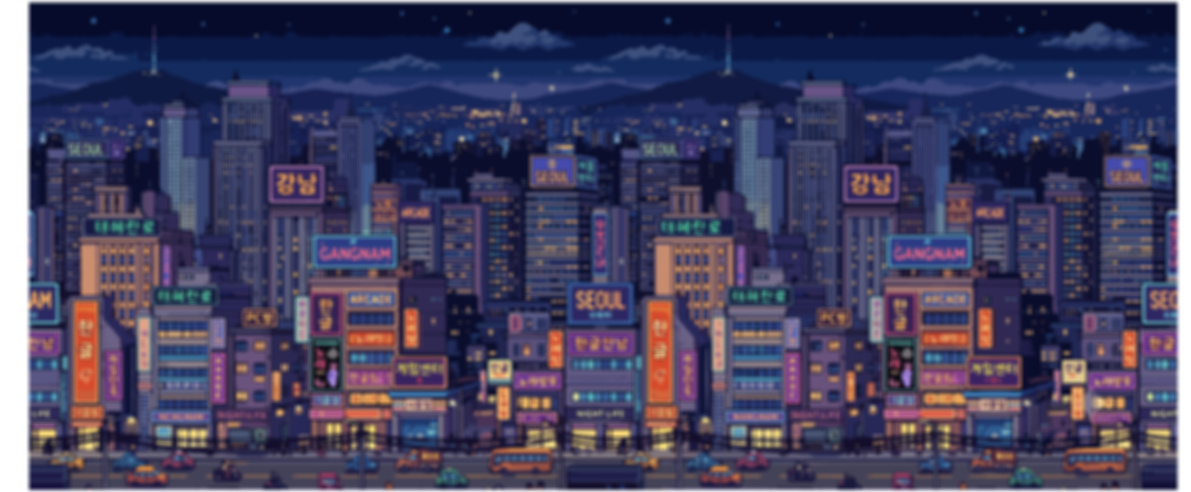
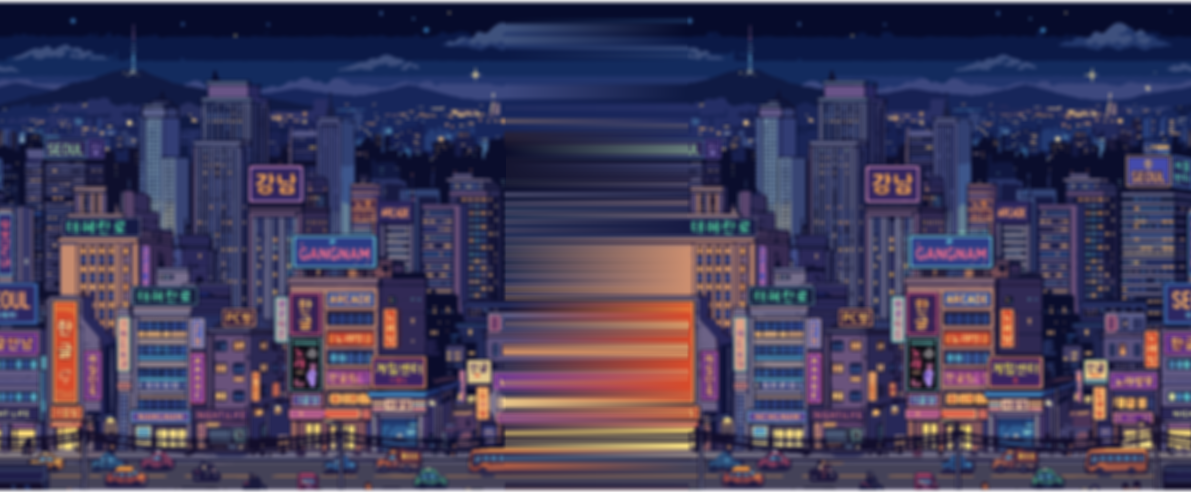
Cocktail Blitz: 배경 좌우 wrap 심리스 재가공(끊김 제거) + 플레이 UI를 Cocktail Defense와 동일화(Press Start 2P, HP/XP 액자바+수치라벨, 레벨업 액자프레임 카드+배너, 획득 칵테일 wslot 슬롯)

diff --git a/cocktail_blitz.html b/cocktail_blitz.html
@@ -5,7 +5,8 @@
 <meta name="viewport" content="width=device-width, initial-scale=1, maximum-scale=1, user-scalable=no">
 <title>Pine &amp; Co — Cocktail Blitz</title>
 <style>
-  :root{ --pine:#5a8a5e; --gold:#c89a3c; --cream:#f0ebe0; }
+  @import url('https://fonts.googleapis.com/css2?family=Press+Start+2P&display=swap');
+  :root{ --pine:#5a8a5e; --gold:#c89a3c; --cream:#f0ebe0; --pine-light:#6fcf8f; --amber:#e6b450; }
   *{ box-sizing:border-box; margin:0; padding:0; }
   html,body{ height:100%; background:#05070d; overflow:hidden; }
   body{ font-family:-apple-system,BlinkMacSystemFont,"Segoe UI",system-ui,sans-serif;
@@ -55,14 +56,26 @@
   #topRow{ display:flex; justify-content:space-between; align-items:flex-start; }
   #score{ font-size:clamp(22px,7vw,34px); font-weight:900; font-variant-numeric:tabular-nums; text-shadow:0 2px 8px rgba(0,0,0,.6); line-height:1; }
   #score small{ display:block; font-size:10px; letter-spacing:2px; color:#8ea0c0; font-weight:700; }
-  #lvBox{ text-align:right; font-size:11px; color:#8ea0c0; font-weight:700; }
-  #lvBox b{ color:var(--gold); font-size:15px; }
-  #bars{ margin-top:7px; display:flex; flex-direction:column; gap:4px; }
-  .bar{ height:7px; background:rgba(0,0,0,.5); border-radius:4px; overflow:hidden; border:1px solid rgba(255,255,255,.15); }
-  #hpFill{ height:100%; background:linear-gradient(90deg,#ff5a6a,#ff9a6a); width:100%; }
-  #xpFill{ height:100%; background:linear-gradient(90deg,#7ee7a0,#c89a3c); width:0%; }
-  #wchips{ position:absolute; bottom:8px; left:0; right:0; display:flex; gap:5px; justify-content:center; pointer-events:none; flex-wrap:wrap; padding:0 8px; }
-  .wchip{ font-size:10px; font-weight:800; letter-spacing:.3px; color:#0a140a; padding:3px 8px; border-radius:20px; box-shadow:0 2px 0 rgba(0,0,0,.4); }
+  #lvBox{ text-align:right; font-size:11px; color:#8ea0c0; font-weight:700; font-family:'Press Start 2P',monospace; }
+  #lvBox b{ color:var(--gold); font-size:13px; }
+  /* ★Cocktail Defense 동일 HP/XP 바(액자형, 픽셀폰트 라벨) */
+  #bars{ margin-top:7px; display:flex; flex-direction:column; }
+  .hp-bar{ position:relative; width:clamp(150px,44vw,230px); height:clamp(18px,5vw,26px);
+    background:#2a0e0e; border:3px solid #000; box-shadow:0 2px 0 rgba(0,0,0,.5); }
+  #hpFill{ height:100%; background:linear-gradient(#ff6b5e,#d9544d); width:100%; transition:width .12s; }
+  .bar-label{ position:absolute; inset:0; display:flex; align-items:center; justify-content:center;
+    font-family:'Press Start 2P',monospace; font-size:clamp(8px,2.3vw,12px); color:#fff; text-shadow:1px 1px 0 #000,-1px -1px 0 #000; }
+  .xp-bar{ position:relative; width:clamp(150px,44vw,230px); height:clamp(9px,2.6vw,14px);
+    background:#0e2a16; border:2px solid #000; margin-top:4px; }
+  #xpFill{ height:100%; background:linear-gradient(#aeffbe,#6fcf8f); width:0%; transition:width .12s; box-shadow:0 0 6px rgba(111,207,143,.85); }
+  /* ★획득 칵테일/재료 슬롯(CD 동일: wslot 액자칩 + Lv 배지) */
+  #wchips{ position:absolute; bottom:8px; left:0; right:0; display:flex; gap:3px; justify-content:center; pointer-events:none; flex-wrap:wrap; padding:0 8px; }
+  .wslot{ width:clamp(26px,7.5vw,34px); height:clamp(26px,7.5vw,34px); border:1.5px solid #555; border-radius:4px;
+    background:rgba(0,0,0,.55); display:flex; align-items:center; justify-content:center; position:relative; }
+  .wslot.base{ border-color:#c89a3c; }
+  .wslot img{ width:76%; height:76%; object-fit:contain; image-rendering:pixelated; }
+  .wslot .wic{ font-size:15px; line-height:1; }
+  .wslot .wlv{ position:absolute; bottom:-3px; right:-1px; font-family:'Press Start 2P',monospace; font-size:8px; color:var(--amber); font-weight:bold; text-shadow:1px 1px 0 #000; }
   #lvlFlash{ position:absolute; top:28%; left:0; right:0; text-align:center; font-weight:900; font-size:clamp(20px,7vw,34px);
     letter-spacing:3px; opacity:0; pointer-events:none; transition:opacity .2s; color:var(--gold); text-shadow:0 0 18px rgba(200,154,60,.5); }
   #lvlFlash.boss{ color:#ff5a4d; }
@@ -71,18 +84,27 @@
   #lvlFlash .bt{ display:block; font-size:.34em; letter-spacing:.5px; font-weight:700; color:#f0d9c0; margin-top:4px; }
   #bossbar{ position:absolute; top:58px; left:12%; right:12%; height:8px; background:rgba(0,0,0,.5); border:1px solid #ff8a7a; border-radius:5px; overflow:hidden; opacity:0; transition:opacity .3s; }
   #bossbar.show{ opacity:1; } #bossfill{ height:100%; width:100%; background:linear-gradient(90deg,#ff5a4d,#ffb14d); }
-  /* 무기 선택 */
-  #levelup{ background:rgba(6,10,20,.9); }
-  #levelup h2{ font-size:clamp(18px,5.5vw,26px); font-weight:900; color:var(--gold); letter-spacing:1px; }
-  #levelup .lsub{ font-size:12px; color:#a9b6cf; margin-bottom:4px; }
-  #cards{ display:flex; flex-direction:column; gap:10px; width:100%; max-width:340px; }
-  .card{ display:flex; align-items:center; gap:12px; padding:12px 14px; border-radius:14px; cursor:pointer; text-align:left;
-    background:linear-gradient(#1a2620,#12190f); border:2px solid #35513f; box-shadow:0 4px 0 rgba(0,0,0,.5); transition:transform .07s,border-color .1s; }
-  .card:active{ transform:translateY(3px); } .card:hover{ border-color:var(--gold); }
-  .cIcon{ width:42px; height:42px; border-radius:10px; flex:0 0 auto; display:flex; align-items:center; justify-content:center; font-size:22px; }
-  .cName{ font-size:15px; font-weight:900; color:var(--cream); }
-  .cLv{ font-size:11px; font-weight:800; color:var(--gold); }
-  .cDesc{ font-size:11px; color:#a9b6cf; line-height:1.4; margin-top:2px; }
+  /* ★레벨업: Cocktail Defense 동일 — 배너 + 액자(levelup_frame.png) 카드 */
+  #levelup{ background:rgba(6,10,20,.92); gap:clamp(8px,2vh,18px); padding:18px 8px; }
+  .levelup-banner{ width:clamp(160px,44vw,300px); height:auto; image-rendering:pixelated;
+    filter:drop-shadow(2px 2px 0 #000) drop-shadow(0 0 16px rgba(111,207,143,.45)); }
+  #cards{ display:flex; flex-wrap:wrap; gap:clamp(6px,1.5vw,14px); align-items:center; justify-content:center; width:100%; max-width:760px; }
+  .up-card{ position:relative; cursor:pointer; transition:transform .07s; flex:0 0 auto; font-family:'Press Start 2P',monospace;
+    width:clamp(120px, min(40vw,26vh), 180px); aspect-ratio:465/475; }
+  .up-card:active{ transform:translateY(3px); }
+  .upframe-img{ position:absolute; inset:0; width:100%; height:100%; image-rendering:pixelated; z-index:2; pointer-events:none; }
+  .up-card.new .upframe-img{ filter:drop-shadow(0 0 11px rgba(230,180,80,.75)); }
+  .up-inner{ position:absolute; left:16%; top:15.5%; width:68%; height:69%; z-index:1; overflow:hidden;
+    display:flex; flex-direction:column; align-items:center; justify-content:center; text-align:center; gap:clamp(1px,0.5vh,3px);
+    padding:2px; background:radial-gradient(circle at 50% 32%, rgba(22,32,20,.5), rgba(8,12,8,.8)); }
+  .up-card .ic{ line-height:1; display:flex; align-items:center; justify-content:center; font-size:clamp(17px,4.6vw,28px); flex:0 0 auto; }
+  .up-card .up-ic{ max-width:82%; max-height:clamp(20px,6vh,34px); width:auto; height:auto; object-fit:contain; image-rendering:pixelated; display:block; }
+  .up-card h4{ font-size:clamp(7px,2.1vw,11px); color:var(--pine-light); line-height:1.2; }
+  .up-card.new h4{ color:var(--amber); }
+  .up-card .lv{ font-size:clamp(6px,1.6vw,9px); color:var(--amber); }
+  .up-card p{ font-size:clamp(6px,1.6vw,9px); color:#d2cdbb; line-height:1.22; max-width:100%;
+    display:-webkit-box; -webkit-box-orient:vertical; -webkit-line-clamp:3; line-clamp:3; overflow:hidden;
+    overflow-wrap:break-word; word-break:break-word; padding:0 1px; font-family:-apple-system,"Segoe UI",system-ui,sans-serif; }
 </style>
 </head>
 <body>
@@ -93,7 +115,10 @@
       <div id="score"><small>SCORE</small><span id="scoreVal">0</span></div>
       <div id="lvBox">WAVE <b id="waveVal">1</b> · LV <b id="lvVal">1</b><br>BEST <span id="hiVal">0</span></div>
     </div>
-    <div id="bars"><div class="bar"><div id="hpFill"></div></div><div class="bar"><div id="xpFill"></div></div></div>
+    <div id="bars">
+      <div class="hp-bar"><div id="hpFill"></div><span class="bar-label" id="hpText">120/120</span></div>
+      <div class="xp-bar"><div id="xpFill"></div></div>
+    </div>
   </div>
   <div id="wchips"></div>
   <div id="bossbar"><div id="bossfill"></div></div>
@@ -124,7 +149,8 @@
   </div>
 
   <div id="levelup" class="overlay hidden">
-    <h2>LEVEL UP!</h2><div class="lsub">칵테일을 하나 골라라</div>
+    <img class="levelup-banner" src="assets/levelup_banner.png" alt="LEVEL UP!"
+         onerror="this.outerHTML='<h2 style=&quot;color:var(--gold);font-family:Press Start 2P,monospace&quot;>LEVEL UP!</h2>'">
     <div id="cards"></div>
   </div>
 
@@ -288,8 +314,12 @@
     playMusic('music_play'+(1+Math.floor(Math.random()*3)));   // ★게임 음악
   }
 
+  function wImg(k){ const w=WEAPONS[k]; return w.sig?(k==='shaker'?'proj_shaker':'proj_barspoon'):'cocktail_'+k; }
   function updWchips(){ const el=document.getElementById('wchips'); let h='';
-    for(const k in player.weapons){ const w=WEAPONS[k]; h+=`<div class="wchip" style="background:${w.col}">${w.ic} ${w.name.split(' ')[0]} ${player.weapons[k]}</div>`; }
+    // ★획득 칵테일/무기를 CD 동일 wslot(액자칩 + Lv 배지)로 표시. 시그니처(기본무기)는 금테.
+    const keys=Object.keys(player.weapons).sort((a,b)=> (WEAPONS[a].sig?0:1)-(WEAPONS[b].sig?0:1));
+    for(const k of keys){ const w=WEAPONS[k], lv=player.weapons[k];
+      h+=`<div class="wslot${w.sig?' base':''}"><img src="assets/${wImg(k)}.png" alt="" onerror="this.replaceWith(Object.assign(document.createElement('span'),{className:'wic',textContent:'${w.ic||'🍸'}'}))"><span class="wlv">${lv}</span></div>`; }
     el.innerHTML=h; }
 
   function enemyHpBase(){ return 6 + t*0.55 + level*1.5; }   // ★난이도↓: 체력 완만
@@ -346,11 +376,14 @@
     const pick=pool.slice(0,3); if(Math.random()<0.35 || pick.length<3) pick.push({heal:true});
     const cards=pick.slice(0,3);
     const el=document.getElementById('cards'); el.innerHTML='';
-    cards.forEach(c=>{ const d=document.createElement('div'); d.className='card';
-      if(c.heal){ d.innerHTML=`<div class="cIcon" style="background:${HEAL.col}">${HEAL.ic}</div><div><div class="cName">${HEAL.name}</div><div class="cDesc">${HEAL.desc}</div></div>`;
+    // ★Cocktail Defense 동일 액자 카드(levelup_frame.png) — 아이콘 이미지 + 이름 + Lv + 설명
+    cards.forEach(c=>{ const d=document.createElement('div');
+      if(c.heal){ d.className='up-card new';
+        d.innerHTML=`<div class="up-inner"><div class="ic"><span>${HEAL.ic}</span></div><h4>${HEAL.name}</h4><div class="lv">RECOVER</div><p>${HEAL.desc}</p></div><img class="upframe-img" src="assets/levelup_frame.png" alt="" onerror="this.style.display='none'">`;
         d.onclick=()=>{ player.maxHp+=20; player.hp=Math.min(player.maxHp,player.hp+60); pickDone(); }; }
       else { const w=WEAPONS[c.k], lv=player.weapons[c.k]||0;
-        d.innerHTML=`<div class="cIcon" style="background:${w.col}">${w.ic}</div><div><div class="cName">${w.name} <span class="cLv">${c.upgrade?('Lv'+lv+'→'+(lv+1)):'NEW'}</span></div><div class="cDesc">${w.desc}</div></div>`;
+        d.className='up-card'+(c.upgrade?'':' new');
+        d.innerHTML=`<div class="up-inner"><div class="ic"><img class="up-ic" src="assets/${wImg(c.k)}.png" alt="" onerror="this.replaceWith(Object.assign(document.createElement('span'),{textContent:'${w.ic||'🍸'}'}))"></div><h4>${w.name}</h4><div class="lv">${c.upgrade?('Lv '+lv+'→'+(lv+1)+'/'+w.max):'NEW · Lv 1'}</div><p>${w.desc}</p></div><img class="upframe-img" src="assets/levelup_frame.png" alt="" onerror="this.style.display='none'">`;
         d.onclick=()=>{ player.weapons[c.k]=(player.weapons[c.k]||0)+1; pickDone(); }; }
       el.appendChild(d); });
   }
@@ -480,11 +513,12 @@
     if(im){ const h=player.r*3.6, w=h*im.width/im.height; ctx.save(); ctx.translate(player.x,player.y); ctx.rotate(FWD); ctx.imageSmoothingEnabled=false; ctx.drawImage(im,-w/2,-h/2,w,h); ctx.restore(); }
     else { ctx.fillStyle='rgba(90,138,94,.9)'; ctx.beginPath(); ctx.arc(player.x,player.y,player.r,0,6.28); ctx.fill(); } }
 
-  // ★미러 타일: 짝수 타일=원본, 홀수 타일=좌우반전 → 인접 이음새가 항상 같은 픽셀끼리 만나 끊김 없음
+  // ★심리스 타일: 이미지 자체가 좌우 wrap(끝=끝)으로 가공됨 → 반전 없이 평면 반복.
+  //   정수좌표 floor + 폭 +1px 겹침으로 서브픽셀 이음새선 제거.
   function tileMirror(im, y, h, speed){ const scale=h/im.height, tw=im.width*scale, s=frame*speed;
     const k0=Math.floor(s/tw)-1, k1=k0+Math.ceil(W/tw)+2;
     for(let k=k0;k<=k1;k++){ const x=k*tw - s;
-      ctx.save(); ctx.translate(x,y); if(k&1){ ctx.translate(tw,0); ctx.scale(-1,1); } ctx.drawImage(im,0,0,tw,h); ctx.restore(); } }
+      ctx.drawImage(im, 0,0,im.width,im.height, Math.floor(x), y, Math.ceil(tw)+1, h); } }
   function draw(){ ctx.clearRect(0,0,W,H); ctx.save(); if(shake>0) ctx.translate((Math.random()-0.5)*shake,(Math.random()-0.5)*shake);
     // ★강남 배경 — 미러 타일로 끊김 없이(짝수=원본/홀수=좌우반전 → 이음새가 항상 같은 픽셀끼리 만남)
     const bgi=IMG.bg_gangnam;
@@ -516,6 +550,7 @@
     if(flashHit>0){ ctx.globalAlpha=flashHit*0.55; ctx.fillStyle='#ff5a4d'; ctx.fillRect(0,0,W,H); ctx.globalAlpha=1; }
     if(state==='play'||state==='levelup'){ document.getElementById('scoreVal').textContent=Math.floor(score).toLocaleString();
       document.getElementById('hiVal').textContent=best.toLocaleString(); document.getElementById('hpFill').style.width=Math.max(0,player.hp/player.maxHp*100)+'%';
+      document.getElementById('hpText').textContent=Math.max(0,Math.ceil(player.hp))+'/'+Math.round(player.maxHp);
       document.getElementById('xpFill').style.width=(coins/coinNeed*100)+'%'; }
   }
   function loop(){ update(); draw(); requestAnimationFrame(loop); }
